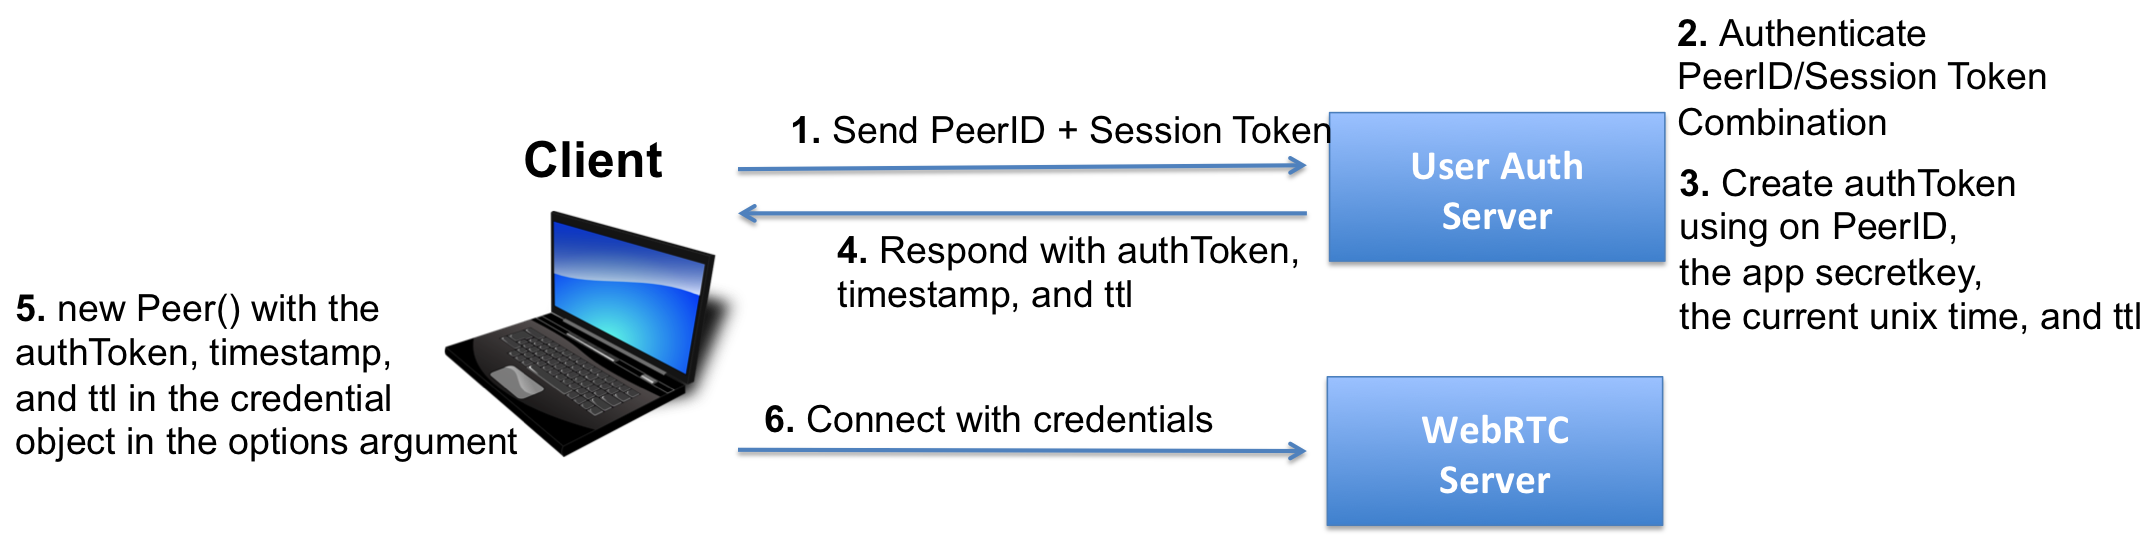
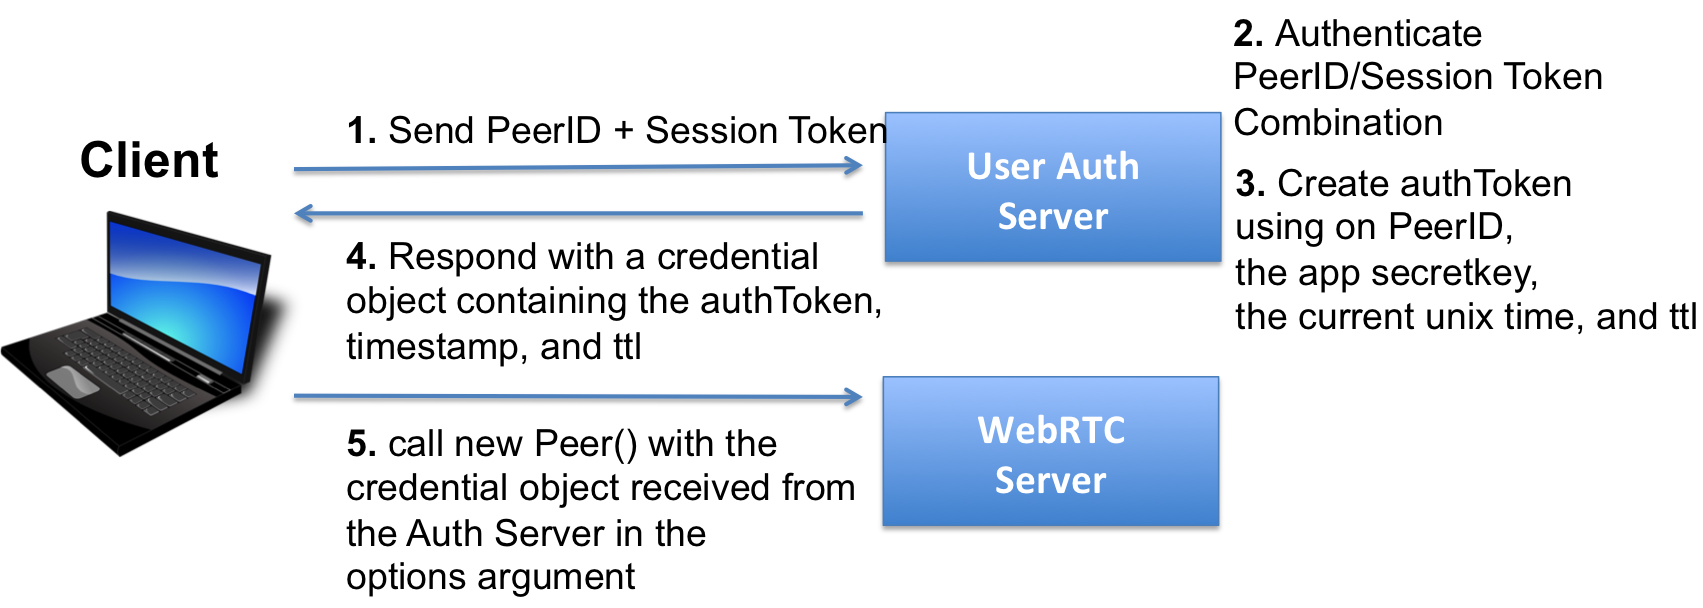
update sequence image

diff --git a/README.jp.md b/README.jp.md
@@ -9,7 +9,7 @@
 ![Peer Authentication Sequence](imgs/sequence_jp.png)
 
 1. クライアントのpeerIdとセッショントークン、またはパスワードを自前の認証サーバに送信する
-2. peerIdとセッショントークンが正しいか確認する
+2. ユーザ側の認証基盤でセッショントークンやパスワードにて認証を行う
 3. [authtoken](#authtoken)で定義された方法でauthTokenを生成する
 4. （authToken、timestamp、ttlが含まれてる）credentialオブジェクトをクライアントに返信する
 5. [例：JavaScriptとjQueryを利用したリクエスト](#例javascriptとjqueryを利用したリクエスト)のように `new Peer()`のオプション引数に認証サーバから取得したcredentialを渡してSkyWayのサーバに接続する。

diff --git a/README.md b/README.md
@@ -9,7 +9,7 @@ This repository contains samples that show how to calculate the credentials for 
 ![Peer Authentication Sequence](imgs/sequence_en.png)
 
 1. Send the client's peerId and session token or password to your Authentication server
-2. Authenticate the peerId and session token
+2. Authenticate the peerId and session token using your Authentication server
 3. Create an authToken following the directions in [authtoken](#authtoken)
 4. Send the credential object, (authToken, timestamp and token ttl,) back to the client
 5. Connect to the SkyWay Server as normal using `new Peer()`, passing the credential as shown in [Example using JavaScript with jQuery](#example-using-javascript-with-jquery)
